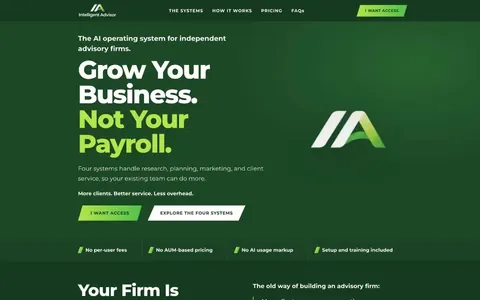
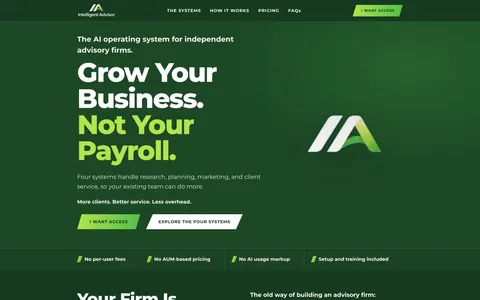
Case study: desktop + mobile hover-scroll previews (Intelligent Advisor), smoother hover-out
- ScrollShot supports a phone frame; PDP shows desktop and phone side by side when a mobile capture exists
- New full desktop + mobile captures for Intelligent Advisor
- Hover-out eases back to the top over 2.4s instead of snapping

Claude-Session: https://claude.ai/code/session_01BBPSof38AwiNCJHDo2Y6YU

diff --git a/src/components/ScrollShot.tsx b/src/components/ScrollShot.tsx
@@ -8,6 +8,8 @@ interface ScrollShotProps {
   title: string;
   /** Live site URL: shown (as a host) in the browser bar and linked from the lightbox. */
   url?: string;
+  /** Desktop browser window (default) or phone frame. */
+  device?: 'desktop' | 'phone';
   priority?: boolean;
   /** Show the "Hover to scroll · Click to expand" hint under the frame. */
   showHint?: boolean;
@@ -23,75 +25,115 @@ function hostOf(url?: string) {
   }
 }
 
+export function ScrollHint({ className = '' }: { className?: string }) {
+  return (
+    <p className={`text-center font-mono text-[11px] uppercase tracking-[0.18em] text-stone-500 ${className}`}>
+      <span className="hover-hint">Hover to scroll · Click to expand</span>
+      <span className="touch-hint">Tap to view the full page</span>
+    </p>
+  );
+}
+
 /**
- * Browser-framed full-page screenshot that scrolls from top to bottom on hover
- * (or keyboard focus) and opens a scrollable lightbox on click / tap.
+ * Full-page screenshot in a browser window or phone frame. It scrolls from top
+ * to bottom on hover (or keyboard focus), eases back up on hover-out, and opens
+ * a scrollable lightbox on click / tap.
  */
-export default function ScrollShot({ src, title, url, priority = false, showHint = true, className = '' }: ScrollShotProps) {
+export default function ScrollShot({
+  src,
+  title,
+  url,
+  device = 'desktop',
+  priority = false,
+  showHint = true,
+  className = '',
+}: ScrollShotProps) {
   const [open, setOpen] = useState(false);
   const [duration, setDuration] = useState(8);
   const frameRef = useRef<HTMLButtonElement>(null);
   const host = hostOf(url);
+  const isPhone = device === 'phone';
+  const label = isPhone ? 'mobile' : 'desktop';
 
   // Scroll speed follows page length so short and long pages move at a similar pace.
   const handleLoad = useCallback((e: SyntheticEvent<HTMLImageElement>) => {
     const img = e.currentTarget;
     const frame = frameRef.current;
-    if (!img.naturalWidth || !frame) return;
+    if (!img.naturalWidth || !frame || !frame.clientWidth) return;
     const pageRatio = img.naturalHeight / img.naturalWidth;
-    const frameRatio = frame.clientHeight / frame.clientWidth || 0.625;
+    const frameRatio = frame.clientHeight / frame.clientWidth;
     const screens = Math.max(pageRatio / frameRatio, 1);
-    setDuration(Math.min(Math.max(screens * 1.4, 4), 12));
+    setDuration(Math.min(Math.max(screens * 1.3, 4), 14));
   }, []);
+
+  const viewport = (
+    <button
+      ref={frameRef}
+      type="button"
+      onClick={() => setOpen(true)}
+      aria-label={`Expand the full-page ${label} screenshot of ${title}`}
+      className={`scroll-shot group relative block w-full overflow-hidden bg-stone-100 text-left focus:outline-none ${
+        isPhone ? 'aspect-[9/19.5] rounded-[1.6rem]' : 'aspect-[16/10]'
+      }`}
+      style={{ '--scroll-duration': `${duration}s` } as CSSProperties}
+    >
+      <img
+        src={src}
+        alt={`${title} — full ${label} homepage`}
+        loading={priority ? 'eager' : 'lazy'}
+        decoding="async"
+        onLoad={handleLoad}
+        className="scroll-shot__img"
+      />
+      {!isPhone && (
+        <span className="pointer-events-none absolute bottom-3 right-3 rounded-md bg-ink/80 px-2.5 py-1 font-mono text-[10px] font-semibold uppercase tracking-[0.15em] text-paper backdrop-blur-sm">
+          Full page
+        </span>
+      )}
+      <span className="pointer-events-none absolute inset-0 rounded-[inherit] ring-inset ring-accent-500 group-focus-visible:ring-2" />
+    </button>
+  );
 
   return (
     <figure className={className}>
-      <div className="overflow-hidden rounded-2xl border border-stone-200 bg-white shadow-[0_32px_64px_-32px_rgba(20,19,15,0.35)]">
-        <div className="flex items-center gap-3 border-b border-stone-200 bg-stone-100 px-4 py-3">
-          <div className="flex gap-1.5" aria-hidden="true">
-            <span className="h-2.5 w-2.5 rounded-full bg-stone-300" />
-            <span className="h-2.5 w-2.5 rounded-full bg-stone-300" />
-            <span className="h-2.5 w-2.5 rounded-full bg-stone-300" />
-          </div>
-          {host && (
-            <div className="mx-auto max-w-xs flex-1 truncate rounded-md bg-white px-3 py-1 text-center text-[11px] font-medium text-stone-500">
-              {host}
-            </div>
-          )}
-          {host && <span className="w-[42px]" aria-hidden="true" />}
-        </div>
-
-        <button
-          ref={frameRef}
-          type="button"
-          onClick={() => setOpen(true)}
-          aria-label={`Expand the full-page screenshot of ${title}`}
-          className="scroll-shot group relative block aspect-[16/10] w-full overflow-hidden bg-stone-100 text-left focus:outline-none"
-          style={{ '--scroll-duration': `${duration}s` } as CSSProperties}
-        >
-          <img
-            src={src}
-            alt={`${title} — full homepage`}
-            loading={priority ? 'eager' : 'lazy'}
-            decoding="async"
-            onLoad={handleLoad}
-            className="scroll-shot__img"
+      {isPhone ? (
+        <div className="relative mx-auto w-full max-w-[260px] rounded-[2.1rem] bg-ink p-2 shadow-[0_32px_64px_-28px_rgba(20,19,15,0.55)]">
+          <span
+            className="pointer-events-none absolute left-1/2 top-3.5 z-10 h-4 w-20 -translate-x-1/2 rounded-full bg-ink"
+            aria-hidden="true"
           />
-          <span className="pointer-events-none absolute bottom-3 right-3 rounded-md bg-ink/80 px-2.5 py-1 font-mono text-[10px] font-semibold uppercase tracking-[0.15em] text-paper backdrop-blur-sm">
-            Full page
-          </span>
-          <span className="pointer-events-none absolute inset-0 rounded-[inherit] ring-inset ring-accent-500 group-focus-visible:ring-2" />
-        </button>
-      </div>
-
-      {showHint && (
-        <figcaption className="mt-3 text-center font-mono text-[11px] uppercase tracking-[0.18em] text-stone-500">
-          <span className="hover-hint">Hover to scroll · Click to expand</span>
-          <span className="touch-hint">Tap to view the full page</span>
-        </figcaption>
+          {viewport}
+        </div>
+      ) : (
+        <div className="overflow-hidden rounded-2xl border border-stone-200 bg-white shadow-[0_32px_64px_-32px_rgba(20,19,15,0.35)]">
+          <div className="flex items-center gap-3 border-b border-stone-200 bg-stone-100 px-4 py-3">
+            <div className="flex gap-1.5" aria-hidden="true">
+              <span className="h-2.5 w-2.5 rounded-full bg-stone-300" />
+              <span className="h-2.5 w-2.5 rounded-full bg-stone-300" />
+              <span className="h-2.5 w-2.5 rounded-full bg-stone-300" />
+            </div>
+            {host && (
+              <div className="mx-auto max-w-xs flex-1 truncate rounded-md bg-white px-3 py-1 text-center text-[11px] font-medium text-stone-500">
+                {host}
+              </div>
+            )}
+            {host && <span className="w-[42px]" aria-hidden="true" />}
+          </div>
+          {viewport}
+        </div>
       )}
 
-      <FullPageLightbox open={open} onClose={() => setOpen(false)} src={src} title={title} url={url} host={host} />
+      {showHint && <ScrollHint className="mt-3" />}
+
+      <FullPageLightbox
+        open={open}
+        onClose={() => setOpen(false)}
+        src={src}
+        title={isPhone ? `${title} · Mobile` : title}
+        url={url}
+        host={host}
+        narrow={isPhone}
+      />
     </figure>
   );
 }

diff --git a/src/pages/ProjectDetailPage.tsx b/src/pages/ProjectDetailPage.tsx
@@ -1,6 +1,6 @@
 import BrowserFrame from '../components/BrowserFrame';
 import Reveal from '../components/Reveal';
-import ScrollShot from '../components/ScrollShot';
+import ScrollShot, { ScrollHint } from '../components/ScrollShot';
 import { projects, type Project } from '../data/projects';
 import { Link } from '../router';
 import CtaBand from './CtaBand';
@@ -82,7 +82,30 @@ export default function ProjectDetailPage({ projectId }: ProjectDetailPageProps)
           </div>
 
           <Reveal delay={0.1} className="mt-14">
-            <ScrollShot src={project.fullPage} title={project.title} url={project.viewProjectUrl} priority />
+            {project.mobilePage ? (
+              <>
+                <div className="grid grid-cols-1 items-end gap-10 lg:grid-cols-[minmax(0,1fr)_260px] lg:gap-8">
+                  <ScrollShot
+                    src={project.fullPage}
+                    title={project.title}
+                    url={project.viewProjectUrl}
+                    priority
+                    showHint={false}
+                  />
+                  <ScrollShot
+                    device="phone"
+                    src={project.mobilePage}
+                    title={project.title}
+                    url={project.viewProjectUrl}
+                    priority
+                    showHint={false}
+                  />
+                </div>
+                <ScrollHint className="mt-5" />
+              </>
+            ) : (
+              <ScrollShot src={project.fullPage} title={project.title} url={project.viewProjectUrl} priority />
+            )}
           </Reveal>
 
           {project.results && project.results.length > 0 && (

diff --git a/src/components/FullPageLightbox.tsx b/src/components/FullPageLightbox.tsx
@@ -9,10 +9,12 @@ interface FullPageLightboxProps {
   title: string;
   url?: string;
   host?: string;
+  /** Phone-width window for mobile captures. */
+  narrow?: boolean;
 }
 
 /** Modal that shows a full-page screenshot in a scrollable browser window. */
-export default function FullPageLightbox({ open, onClose, src, title, url, host }: FullPageLightboxProps) {
+export default function FullPageLightbox({ open, onClose, src, title, url, host, narrow = false }: FullPageLightboxProps) {
   const closeRef = useRef<HTMLButtonElement>(null);
 
   useEffect(() => {
@@ -48,7 +50,7 @@ export default function FullPageLightbox({ open, onClose, src, title, url, host 
           aria-label={`${title} — full-page screenshot`}
         >
           <motion.div
-            className="flex h-full max-h-[92vh] w-full max-w-5xl flex-col overflow-hidden rounded-2xl bg-white shadow-2xl"
+            className={`flex h-full max-h-[92vh] w-full flex-col overflow-hidden rounded-2xl bg-white shadow-2xl ${narrow ? 'max-w-sm' : 'max-w-5xl'}`}
             initial={{ y: 24, scale: 0.98 }}
             animate={{ y: 0, scale: 1 }}
             exit={{ y: 16, scale: 0.98 }}

diff --git a/src/data/projects.ts b/src/data/projects.ts
@@ -34,6 +34,8 @@ export interface Project {
   fullPage: string;
   /** Small 16:10 crop of the full-page capture, used in thumbnail strips. */
   thumb: string;
+  /** Optional tall full-page mobile capture, shown in a phone frame next to the desktop preview. */
+  mobilePage?: string;
   technologies: string[];
   /** Fallback cover art (SVG). */
   image: string;
@@ -295,6 +297,7 @@ export const projects: Project[] = [
       { src: '/images/projects/intelligent-advisor-section.webp', caption: 'Pricing tiers with the Full OS plan highlighted' },
     ],
     fullPage: '/images/projects/intelligent-advisor-full.webp',
+    mobilePage: '/images/projects/intelligent-advisor-mobile.webp',
     thumb: '/images/projects/intelligent-advisor-thumb.webp',
     technologies: ['WordPress', 'Divi Theme Builder', 'Custom CSS', 'Responsive Design', 'Pricing Tables', 'FAQ Accordion'],
     image: '/images/projects/case-study-intelligent-advisor.svg',

diff --git a/src/index.css b/src/index.css
@@ -83,7 +83,8 @@
     height: 100%;
     object-fit: cover;
     object-position: 50% 0%;
-    transition: object-position 1.1s cubic-bezier(0.16, 1, 0.3, 1);
+    /* Hover-out: ease gently back to the top instead of snapping. */
+    transition: object-position 2.4s cubic-bezier(0.45, 0, 0.25, 1);
   }
 
   @media (hover: hover) {
